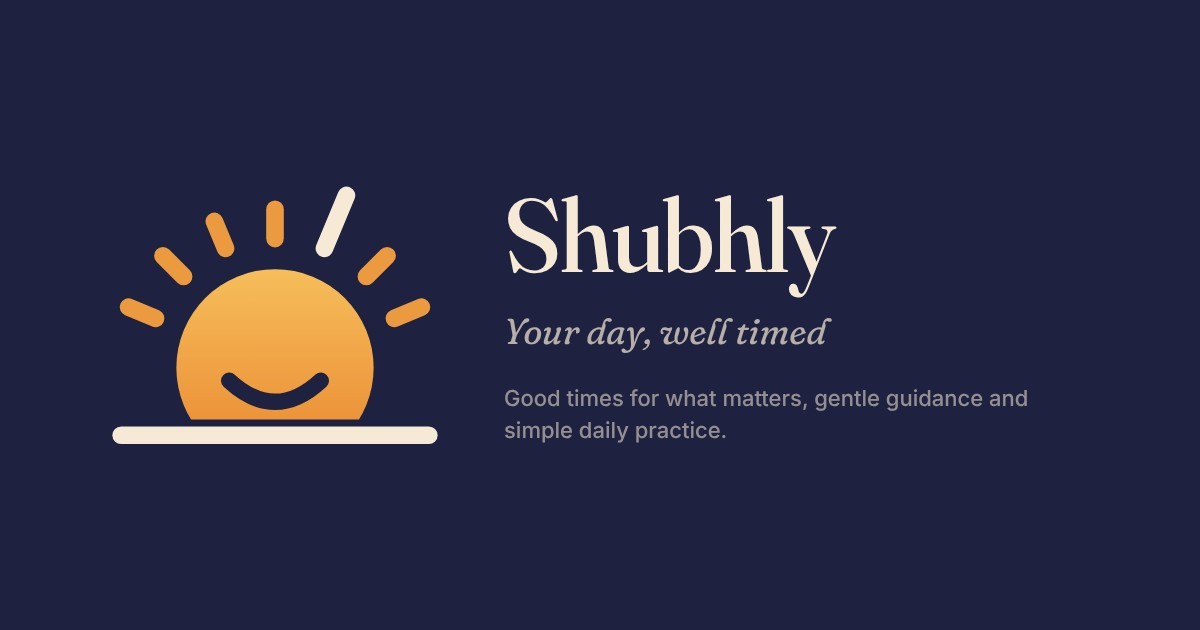
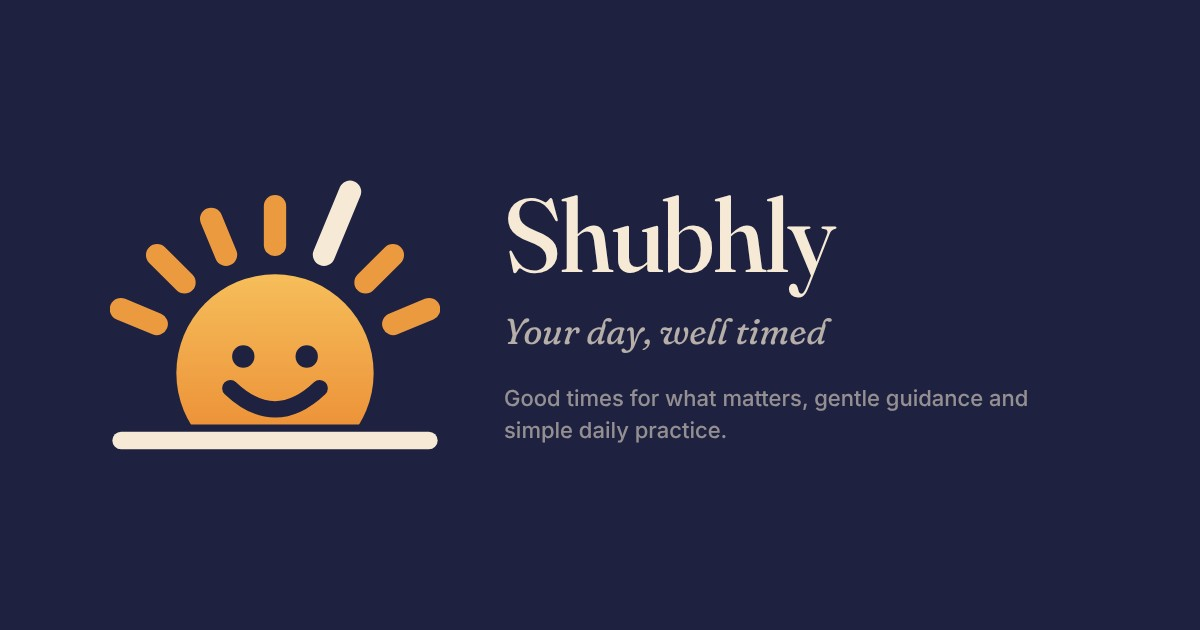
Shubhly mark: add eyes, bolder rays
Claude-Session: https://claude.ai/code/session_01S2B5MfNgVKzhJ8tjaHYyp9

Changed region(s): [[0.0925, 0.2714, 0.37, 0.5429], [0.0925, 0.5429, 0.37, 0.7238]]

diff --git a/app/index.html b/app/index.html
@@ -38,7 +38,7 @@
 </head>
 <body>
 <script>(function(){var p=null;try{p=JSON.parse(localStorage.getItem("a:profile")||"null")}catch(e){}window.ME={first:p&&p.name?p.name.split(" ")[0]:"",name:"You",self:true,birth:p&&p.dob?{dob:p.dob,time:p.time,lat:p.place[0],lon:p.place[1],tz:p.tz||"Asia/Kolkata"}:null}})()</script>
-<div class="splash anim" id="splash" aria-hidden="true"><svg class="sp-mark" viewBox="231 232 562 447" aria-hidden="true"><defs><linearGradient id="spg" x1="0" y1="377" x2="0" y2="660" gradientUnits="userSpaceOnUse"><stop offset="0" stop-color="#F6BE5A"/><stop offset="1" stop-color="#EC8F37"/></linearGradient><clipPath id="spc"><rect x="0" y="0" width="1024" height="633"/></clipPath></defs><g clip-path="url(#spc)"><g class="sp-sun"><circle cx="512" cy="545" r="168" fill="url(#spg)"/><path class="sp-s" d="M434,567 Q512,639 590,567" fill="none" stroke="#1E2140" stroke-width="28" stroke-linecap="round"/></g></g><line class="sp-r" style="--i:0" x1="308.7" y1="460.8" x2="262.6" y2="441.7" stroke="#EC9A40" stroke-width="30" stroke-linecap="round"/><line class="sp-r" style="--i:1" x1="356.4" y1="389.4" x2="321.1" y2="354.1" stroke="#EC9A40" stroke-width="30" stroke-linecap="round"/><line class="sp-r" style="--i:2" x1="427.8" y1="341.7" x2="408.7" y2="295.6" stroke="#EC9A40" stroke-width="30" stroke-linecap="round"/><line class="sp-r" style="--i:3" x1="512.0" y1="325.0" x2="512.0" y2="275.0" stroke="#EC9A40" stroke-width="30" stroke-linecap="round"/><line class="sp-r hi" style="--i:4" x1="596.2" y1="341.7" x2="633.7" y2="251.2" stroke="#F6EAD6" stroke-width="30" stroke-linecap="round"/><line class="sp-r" style="--i:5" x1="667.6" y1="389.4" x2="702.9" y2="354.1" stroke="#EC9A40" stroke-width="30" stroke-linecap="round"/><line class="sp-r" style="--i:6" x1="715.3" y1="460.8" x2="761.4" y2="441.7" stroke="#EC9A40" stroke-width="30" stroke-linecap="round"/><line class="sp-h" x1="250" y1="660" x2="774" y2="660" stroke="#F6EAD6" stroke-width="30" stroke-linecap="round"/></svg><div class="sp-word"><b>Shubhly</b><i>Your day, well timed</i></div><div class="sp-hi" id="spHi"></div></div>
+<div class="splash anim" id="splash" aria-hidden="true"><svg class="sp-mark" viewBox="231 213 562 466" aria-hidden="true"><defs><linearGradient id="spg" x1="0" y1="377" x2="0" y2="660" gradientUnits="userSpaceOnUse"><stop offset="0" stop-color="#F6BE5A"/><stop offset="1" stop-color="#EC8F37"/></linearGradient><clipPath id="spc"><rect x="0" y="0" width="1024" height="633"/></clipPath></defs><g clip-path="url(#spc)"><g class="sp-sun"><circle cx="512" cy="545" r="168" fill="url(#spg)"/><g class="sp-s"><circle cx="458" cy="517" r="19" fill="#1E2140"/><circle cx="566" cy="517" r="19" fill="#1E2140"/><path d="M436,571 Q512,643 588,571" fill="none" stroke="#1E2140" stroke-width="28" stroke-linecap="round"/></g></g></g><line class="sp-r" style="--i:0" x1="310.6" y1="461.6" x2="249.6" y2="436.3" stroke="#EC9A40" stroke-width="38" stroke-linecap="round"/><line class="sp-r" style="--i:1" x1="357.9" y1="390.9" x2="311.2" y2="344.2" stroke="#EC9A40" stroke-width="38" stroke-linecap="round"/><line class="sp-r" style="--i:2" x1="428.6" y1="343.6" x2="403.3" y2="282.6" stroke="#EC9A40" stroke-width="38" stroke-linecap="round"/><line class="sp-r" style="--i:3" x1="512.0" y1="327.0" x2="512.0" y2="261.0" stroke="#EC9A40" stroke-width="38" stroke-linecap="round"/><line class="sp-r hi" style="--i:4" x1="595.4" y1="343.6" x2="639.8" y2="236.4" stroke="#F6EAD6" stroke-width="38" stroke-linecap="round"/><line class="sp-r" style="--i:5" x1="666.1" y1="390.9" x2="712.8" y2="344.2" stroke="#EC9A40" stroke-width="38" stroke-linecap="round"/><line class="sp-r" style="--i:6" x1="713.4" y1="461.6" x2="774.4" y2="436.3" stroke="#EC9A40" stroke-width="38" stroke-linecap="round"/><line class="sp-h" x1="250" y1="660" x2="774" y2="660" stroke="#F6EAD6" stroke-width="30" stroke-linecap="round"/></svg><div class="sp-word"><b>Shubhly</b><i>Your day, well timed</i></div><div class="sp-hi" id="spHi"></div></div>
 <script>(function(){try{var h=(new Date(Date.now()+19800e3)).getUTCHours(),g=h<5?'Good night':h<12?'Good morning':h<17?'Good afternoon':h<21?'Good evening':'Good night',M=window.ME||{},n=M.first||'';document.getElementById('spHi').textContent=M.self===false?(n?n+'\u2019s day':''):(g+(n?', '+n:''))}catch(e){}window._spT=Date.now()})()</script>
 <meta name="color-scheme" content="light">
 <style>

diff --git a/eraya/index.html b/eraya/index.html
@@ -38,7 +38,7 @@
 </head>
 <body>
 <script>window.ME={birth:{dob:"2026-09-15",time:"08:09",lat:28.4595,lon:77.0266,tz:"Asia/Kolkata"},first:"Eraya",name:"Eraya",self:false,noWork:true}</script>
-<div class="splash anim" id="splash" aria-hidden="true"><svg class="sp-mark" viewBox="231 232 562 447" aria-hidden="true"><defs><linearGradient id="spg" x1="0" y1="377" x2="0" y2="660" gradientUnits="userSpaceOnUse"><stop offset="0" stop-color="#F6BE5A"/><stop offset="1" stop-color="#EC8F37"/></linearGradient><clipPath id="spc"><rect x="0" y="0" width="1024" height="633"/></clipPath></defs><g clip-path="url(#spc)"><g class="sp-sun"><circle cx="512" cy="545" r="168" fill="url(#spg)"/><path class="sp-s" d="M434,567 Q512,639 590,567" fill="none" stroke="#1E2140" stroke-width="28" stroke-linecap="round"/></g></g><line class="sp-r" style="--i:0" x1="308.7" y1="460.8" x2="262.6" y2="441.7" stroke="#EC9A40" stroke-width="30" stroke-linecap="round"/><line class="sp-r" style="--i:1" x1="356.4" y1="389.4" x2="321.1" y2="354.1" stroke="#EC9A40" stroke-width="30" stroke-linecap="round"/><line class="sp-r" style="--i:2" x1="427.8" y1="341.7" x2="408.7" y2="295.6" stroke="#EC9A40" stroke-width="30" stroke-linecap="round"/><line class="sp-r" style="--i:3" x1="512.0" y1="325.0" x2="512.0" y2="275.0" stroke="#EC9A40" stroke-width="30" stroke-linecap="round"/><line class="sp-r hi" style="--i:4" x1="596.2" y1="341.7" x2="633.7" y2="251.2" stroke="#F6EAD6" stroke-width="30" stroke-linecap="round"/><line class="sp-r" style="--i:5" x1="667.6" y1="389.4" x2="702.9" y2="354.1" stroke="#EC9A40" stroke-width="30" stroke-linecap="round"/><line class="sp-r" style="--i:6" x1="715.3" y1="460.8" x2="761.4" y2="441.7" stroke="#EC9A40" stroke-width="30" stroke-linecap="round"/><line class="sp-h" x1="250" y1="660" x2="774" y2="660" stroke="#F6EAD6" stroke-width="30" stroke-linecap="round"/></svg><div class="sp-word"><b>Shubhly</b><i>Your day, well timed</i></div><div class="sp-hi" id="spHi"></div></div>
+<div class="splash anim" id="splash" aria-hidden="true"><svg class="sp-mark" viewBox="231 213 562 466" aria-hidden="true"><defs><linearGradient id="spg" x1="0" y1="377" x2="0" y2="660" gradientUnits="userSpaceOnUse"><stop offset="0" stop-color="#F6BE5A"/><stop offset="1" stop-color="#EC8F37"/></linearGradient><clipPath id="spc"><rect x="0" y="0" width="1024" height="633"/></clipPath></defs><g clip-path="url(#spc)"><g class="sp-sun"><circle cx="512" cy="545" r="168" fill="url(#spg)"/><g class="sp-s"><circle cx="458" cy="517" r="19" fill="#1E2140"/><circle cx="566" cy="517" r="19" fill="#1E2140"/><path d="M436,571 Q512,643 588,571" fill="none" stroke="#1E2140" stroke-width="28" stroke-linecap="round"/></g></g></g><line class="sp-r" style="--i:0" x1="310.6" y1="461.6" x2="249.6" y2="436.3" stroke="#EC9A40" stroke-width="38" stroke-linecap="round"/><line class="sp-r" style="--i:1" x1="357.9" y1="390.9" x2="311.2" y2="344.2" stroke="#EC9A40" stroke-width="38" stroke-linecap="round"/><line class="sp-r" style="--i:2" x1="428.6" y1="343.6" x2="403.3" y2="282.6" stroke="#EC9A40" stroke-width="38" stroke-linecap="round"/><line class="sp-r" style="--i:3" x1="512.0" y1="327.0" x2="512.0" y2="261.0" stroke="#EC9A40" stroke-width="38" stroke-linecap="round"/><line class="sp-r hi" style="--i:4" x1="595.4" y1="343.6" x2="639.8" y2="236.4" stroke="#F6EAD6" stroke-width="38" stroke-linecap="round"/><line class="sp-r" style="--i:5" x1="666.1" y1="390.9" x2="712.8" y2="344.2" stroke="#EC9A40" stroke-width="38" stroke-linecap="round"/><line class="sp-r" style="--i:6" x1="713.4" y1="461.6" x2="774.4" y2="436.3" stroke="#EC9A40" stroke-width="38" stroke-linecap="round"/><line class="sp-h" x1="250" y1="660" x2="774" y2="660" stroke="#F6EAD6" stroke-width="30" stroke-linecap="round"/></svg><div class="sp-word"><b>Shubhly</b><i>Your day, well timed</i></div><div class="sp-hi" id="spHi"></div></div>
 <script>(function(){try{var h=(new Date(Date.now()+19800e3)).getUTCHours(),g=h<5?'Good night':h<12?'Good morning':h<17?'Good afternoon':h<21?'Good evening':'Good night',M=window.ME||{},n=M.first||'';document.getElementById('spHi').textContent=M.self===false?(n?n+'\u2019s day':''):(g+(n?', '+n:''))}catch(e){}window._spT=Date.now()})()</script>
 <meta name="color-scheme" content="light">
 <style>

diff --git a/pratiksha/index.html b/pratiksha/index.html
@@ -38,7 +38,7 @@
 </head>
 <body>
 <script>window.ME={birth:{dob:"1999-10-01",time:"14:35",lat:26.4499,lon:80.3319,tz:"Asia/Kolkata"},first:"Pratiksha",name:"You",self:true}</script>
-<div class="splash anim" id="splash" aria-hidden="true"><svg class="sp-mark" viewBox="231 232 562 447" aria-hidden="true"><defs><linearGradient id="spg" x1="0" y1="377" x2="0" y2="660" gradientUnits="userSpaceOnUse"><stop offset="0" stop-color="#F6BE5A"/><stop offset="1" stop-color="#EC8F37"/></linearGradient><clipPath id="spc"><rect x="0" y="0" width="1024" height="633"/></clipPath></defs><g clip-path="url(#spc)"><g class="sp-sun"><circle cx="512" cy="545" r="168" fill="url(#spg)"/><path class="sp-s" d="M434,567 Q512,639 590,567" fill="none" stroke="#1E2140" stroke-width="28" stroke-linecap="round"/></g></g><line class="sp-r" style="--i:0" x1="308.7" y1="460.8" x2="262.6" y2="441.7" stroke="#EC9A40" stroke-width="30" stroke-linecap="round"/><line class="sp-r" style="--i:1" x1="356.4" y1="389.4" x2="321.1" y2="354.1" stroke="#EC9A40" stroke-width="30" stroke-linecap="round"/><line class="sp-r" style="--i:2" x1="427.8" y1="341.7" x2="408.7" y2="295.6" stroke="#EC9A40" stroke-width="30" stroke-linecap="round"/><line class="sp-r" style="--i:3" x1="512.0" y1="325.0" x2="512.0" y2="275.0" stroke="#EC9A40" stroke-width="30" stroke-linecap="round"/><line class="sp-r hi" style="--i:4" x1="596.2" y1="341.7" x2="633.7" y2="251.2" stroke="#F6EAD6" stroke-width="30" stroke-linecap="round"/><line class="sp-r" style="--i:5" x1="667.6" y1="389.4" x2="702.9" y2="354.1" stroke="#EC9A40" stroke-width="30" stroke-linecap="round"/><line class="sp-r" style="--i:6" x1="715.3" y1="460.8" x2="761.4" y2="441.7" stroke="#EC9A40" stroke-width="30" stroke-linecap="round"/><line class="sp-h" x1="250" y1="660" x2="774" y2="660" stroke="#F6EAD6" stroke-width="30" stroke-linecap="round"/></svg><div class="sp-word"><b>Shubhly</b><i>Your day, well timed</i></div><div class="sp-hi" id="spHi"></div></div>
+<div class="splash anim" id="splash" aria-hidden="true"><svg class="sp-mark" viewBox="231 213 562 466" aria-hidden="true"><defs><linearGradient id="spg" x1="0" y1="377" x2="0" y2="660" gradientUnits="userSpaceOnUse"><stop offset="0" stop-color="#F6BE5A"/><stop offset="1" stop-color="#EC8F37"/></linearGradient><clipPath id="spc"><rect x="0" y="0" width="1024" height="633"/></clipPath></defs><g clip-path="url(#spc)"><g class="sp-sun"><circle cx="512" cy="545" r="168" fill="url(#spg)"/><g class="sp-s"><circle cx="458" cy="517" r="19" fill="#1E2140"/><circle cx="566" cy="517" r="19" fill="#1E2140"/><path d="M436,571 Q512,643 588,571" fill="none" stroke="#1E2140" stroke-width="28" stroke-linecap="round"/></g></g></g><line class="sp-r" style="--i:0" x1="310.6" y1="461.6" x2="249.6" y2="436.3" stroke="#EC9A40" stroke-width="38" stroke-linecap="round"/><line class="sp-r" style="--i:1" x1="357.9" y1="390.9" x2="311.2" y2="344.2" stroke="#EC9A40" stroke-width="38" stroke-linecap="round"/><line class="sp-r" style="--i:2" x1="428.6" y1="343.6" x2="403.3" y2="282.6" stroke="#EC9A40" stroke-width="38" stroke-linecap="round"/><line class="sp-r" style="--i:3" x1="512.0" y1="327.0" x2="512.0" y2="261.0" stroke="#EC9A40" stroke-width="38" stroke-linecap="round"/><line class="sp-r hi" style="--i:4" x1="595.4" y1="343.6" x2="639.8" y2="236.4" stroke="#F6EAD6" stroke-width="38" stroke-linecap="round"/><line class="sp-r" style="--i:5" x1="666.1" y1="390.9" x2="712.8" y2="344.2" stroke="#EC9A40" stroke-width="38" stroke-linecap="round"/><line class="sp-r" style="--i:6" x1="713.4" y1="461.6" x2="774.4" y2="436.3" stroke="#EC9A40" stroke-width="38" stroke-linecap="round"/><line class="sp-h" x1="250" y1="660" x2="774" y2="660" stroke="#F6EAD6" stroke-width="30" stroke-linecap="round"/></svg><div class="sp-word"><b>Shubhly</b><i>Your day, well timed</i></div><div class="sp-hi" id="spHi"></div></div>
 <script>(function(){try{var h=(new Date(Date.now()+19800e3)).getUTCHours(),g=h<5?'Good night':h<12?'Good morning':h<17?'Good afternoon':h<21?'Good evening':'Good night',M=window.ME||{},n=M.first||'';document.getElementById('spHi').textContent=M.self===false?(n?n+'\u2019s day':''):(g+(n?', '+n:''))}catch(e){}window._spT=Date.now()})()</script>
 <meta name="color-scheme" content="light">
 <style>

diff --git a/didi/index.html b/didi/index.html
@@ -38,7 +38,7 @@
 </head>
 <body>
 <script>window.ME={birth:{dob:"1982-07-29",time:"14:15",lat:26.8467,lon:80.9462,tz:"Asia/Kolkata"},first:"Shraddha",name:"You",self:true}</script>
-<div class="splash anim" id="splash" aria-hidden="true"><svg class="sp-mark" viewBox="231 232 562 447" aria-hidden="true"><defs><linearGradient id="spg" x1="0" y1="377" x2="0" y2="660" gradientUnits="userSpaceOnUse"><stop offset="0" stop-color="#F6BE5A"/><stop offset="1" stop-color="#EC8F37"/></linearGradient><clipPath id="spc"><rect x="0" y="0" width="1024" height="633"/></clipPath></defs><g clip-path="url(#spc)"><g class="sp-sun"><circle cx="512" cy="545" r="168" fill="url(#spg)"/><path class="sp-s" d="M434,567 Q512,639 590,567" fill="none" stroke="#1E2140" stroke-width="28" stroke-linecap="round"/></g></g><line class="sp-r" style="--i:0" x1="308.7" y1="460.8" x2="262.6" y2="441.7" stroke="#EC9A40" stroke-width="30" stroke-linecap="round"/><line class="sp-r" style="--i:1" x1="356.4" y1="389.4" x2="321.1" y2="354.1" stroke="#EC9A40" stroke-width="30" stroke-linecap="round"/><line class="sp-r" style="--i:2" x1="427.8" y1="341.7" x2="408.7" y2="295.6" stroke="#EC9A40" stroke-width="30" stroke-linecap="round"/><line class="sp-r" style="--i:3" x1="512.0" y1="325.0" x2="512.0" y2="275.0" stroke="#EC9A40" stroke-width="30" stroke-linecap="round"/><line class="sp-r hi" style="--i:4" x1="596.2" y1="341.7" x2="633.7" y2="251.2" stroke="#F6EAD6" stroke-width="30" stroke-linecap="round"/><line class="sp-r" style="--i:5" x1="667.6" y1="389.4" x2="702.9" y2="354.1" stroke="#EC9A40" stroke-width="30" stroke-linecap="round"/><line class="sp-r" style="--i:6" x1="715.3" y1="460.8" x2="761.4" y2="441.7" stroke="#EC9A40" stroke-width="30" stroke-linecap="round"/><line class="sp-h" x1="250" y1="660" x2="774" y2="660" stroke="#F6EAD6" stroke-width="30" stroke-linecap="round"/></svg><div class="sp-word"><b>Shubhly</b><i>Your day, well timed</i></div><div class="sp-hi" id="spHi"></div></div>
+<div class="splash anim" id="splash" aria-hidden="true"><svg class="sp-mark" viewBox="231 213 562 466" aria-hidden="true"><defs><linearGradient id="spg" x1="0" y1="377" x2="0" y2="660" gradientUnits="userSpaceOnUse"><stop offset="0" stop-color="#F6BE5A"/><stop offset="1" stop-color="#EC8F37"/></linearGradient><clipPath id="spc"><rect x="0" y="0" width="1024" height="633"/></clipPath></defs><g clip-path="url(#spc)"><g class="sp-sun"><circle cx="512" cy="545" r="168" fill="url(#spg)"/><g class="sp-s"><circle cx="458" cy="517" r="19" fill="#1E2140"/><circle cx="566" cy="517" r="19" fill="#1E2140"/><path d="M436,571 Q512,643 588,571" fill="none" stroke="#1E2140" stroke-width="28" stroke-linecap="round"/></g></g></g><line class="sp-r" style="--i:0" x1="310.6" y1="461.6" x2="249.6" y2="436.3" stroke="#EC9A40" stroke-width="38" stroke-linecap="round"/><line class="sp-r" style="--i:1" x1="357.9" y1="390.9" x2="311.2" y2="344.2" stroke="#EC9A40" stroke-width="38" stroke-linecap="round"/><line class="sp-r" style="--i:2" x1="428.6" y1="343.6" x2="403.3" y2="282.6" stroke="#EC9A40" stroke-width="38" stroke-linecap="round"/><line class="sp-r" style="--i:3" x1="512.0" y1="327.0" x2="512.0" y2="261.0" stroke="#EC9A40" stroke-width="38" stroke-linecap="round"/><line class="sp-r hi" style="--i:4" x1="595.4" y1="343.6" x2="639.8" y2="236.4" stroke="#F6EAD6" stroke-width="38" stroke-linecap="round"/><line class="sp-r" style="--i:5" x1="666.1" y1="390.9" x2="712.8" y2="344.2" stroke="#EC9A40" stroke-width="38" stroke-linecap="round"/><line class="sp-r" style="--i:6" x1="713.4" y1="461.6" x2="774.4" y2="436.3" stroke="#EC9A40" stroke-width="38" stroke-linecap="round"/><line class="sp-h" x1="250" y1="660" x2="774" y2="660" stroke="#F6EAD6" stroke-width="30" stroke-linecap="round"/></svg><div class="sp-word"><b>Shubhly</b><i>Your day, well timed</i></div><div class="sp-hi" id="spHi"></div></div>
 <script>(function(){try{var h=(new Date(Date.now()+19800e3)).getUTCHours(),g=h<5?'Good night':h<12?'Good morning':h<17?'Good afternoon':h<21?'Good evening':'Good night',M=window.ME||{},n=M.first||'';document.getElementById('spHi').textContent=M.self===false?(n?n+'\u2019s day':''):(g+(n?', '+n:''))}catch(e){}window._spT=Date.now()})()</script>
 <meta name="color-scheme" content="light">
 <style>

diff --git a/index.html b/index.html
@@ -38,7 +38,7 @@
 </head>
 <body>
 <script>window.ME={birth:{dob:"1994-07-08",time:"07:52",lat:26.8467,lon:80.9462,tz:"Asia/Kolkata"},first:"Aayush",name:"You",self:true}</script>
-<div class="splash anim" id="splash" aria-hidden="true"><svg class="sp-mark" viewBox="231 232 562 447" aria-hidden="true"><defs><linearGradient id="spg" x1="0" y1="377" x2="0" y2="660" gradientUnits="userSpaceOnUse"><stop offset="0" stop-color="#F6BE5A"/><stop offset="1" stop-color="#EC8F37"/></linearGradient><clipPath id="spc"><rect x="0" y="0" width="1024" height="633"/></clipPath></defs><g clip-path="url(#spc)"><g class="sp-sun"><circle cx="512" cy="545" r="168" fill="url(#spg)"/><path class="sp-s" d="M434,567 Q512,639 590,567" fill="none" stroke="#1E2140" stroke-width="28" stroke-linecap="round"/></g></g><line class="sp-r" style="--i:0" x1="308.7" y1="460.8" x2="262.6" y2="441.7" stroke="#EC9A40" stroke-width="30" stroke-linecap="round"/><line class="sp-r" style="--i:1" x1="356.4" y1="389.4" x2="321.1" y2="354.1" stroke="#EC9A40" stroke-width="30" stroke-linecap="round"/><line class="sp-r" style="--i:2" x1="427.8" y1="341.7" x2="408.7" y2="295.6" stroke="#EC9A40" stroke-width="30" stroke-linecap="round"/><line class="sp-r" style="--i:3" x1="512.0" y1="325.0" x2="512.0" y2="275.0" stroke="#EC9A40" stroke-width="30" stroke-linecap="round"/><line class="sp-r hi" style="--i:4" x1="596.2" y1="341.7" x2="633.7" y2="251.2" stroke="#F6EAD6" stroke-width="30" stroke-linecap="round"/><line class="sp-r" style="--i:5" x1="667.6" y1="389.4" x2="702.9" y2="354.1" stroke="#EC9A40" stroke-width="30" stroke-linecap="round"/><line class="sp-r" style="--i:6" x1="715.3" y1="460.8" x2="761.4" y2="441.7" stroke="#EC9A40" stroke-width="30" stroke-linecap="round"/><line class="sp-h" x1="250" y1="660" x2="774" y2="660" stroke="#F6EAD6" stroke-width="30" stroke-linecap="round"/></svg><div class="sp-word"><b>Shubhly</b><i>Your day, well timed</i></div><div class="sp-hi" id="spHi"></div></div>
+<div class="splash anim" id="splash" aria-hidden="true"><svg class="sp-mark" viewBox="231 213 562 466" aria-hidden="true"><defs><linearGradient id="spg" x1="0" y1="377" x2="0" y2="660" gradientUnits="userSpaceOnUse"><stop offset="0" stop-color="#F6BE5A"/><stop offset="1" stop-color="#EC8F37"/></linearGradient><clipPath id="spc"><rect x="0" y="0" width="1024" height="633"/></clipPath></defs><g clip-path="url(#spc)"><g class="sp-sun"><circle cx="512" cy="545" r="168" fill="url(#spg)"/><g class="sp-s"><circle cx="458" cy="517" r="19" fill="#1E2140"/><circle cx="566" cy="517" r="19" fill="#1E2140"/><path d="M436,571 Q512,643 588,571" fill="none" stroke="#1E2140" stroke-width="28" stroke-linecap="round"/></g></g></g><line class="sp-r" style="--i:0" x1="310.6" y1="461.6" x2="249.6" y2="436.3" stroke="#EC9A40" stroke-width="38" stroke-linecap="round"/><line class="sp-r" style="--i:1" x1="357.9" y1="390.9" x2="311.2" y2="344.2" stroke="#EC9A40" stroke-width="38" stroke-linecap="round"/><line class="sp-r" style="--i:2" x1="428.6" y1="343.6" x2="403.3" y2="282.6" stroke="#EC9A40" stroke-width="38" stroke-linecap="round"/><line class="sp-r" style="--i:3" x1="512.0" y1="327.0" x2="512.0" y2="261.0" stroke="#EC9A40" stroke-width="38" stroke-linecap="round"/><line class="sp-r hi" style="--i:4" x1="595.4" y1="343.6" x2="639.8" y2="236.4" stroke="#F6EAD6" stroke-width="38" stroke-linecap="round"/><line class="sp-r" style="--i:5" x1="666.1" y1="390.9" x2="712.8" y2="344.2" stroke="#EC9A40" stroke-width="38" stroke-linecap="round"/><line class="sp-r" style="--i:6" x1="713.4" y1="461.6" x2="774.4" y2="436.3" stroke="#EC9A40" stroke-width="38" stroke-linecap="round"/><line class="sp-h" x1="250" y1="660" x2="774" y2="660" stroke="#F6EAD6" stroke-width="30" stroke-linecap="round"/></svg><div class="sp-word"><b>Shubhly</b><i>Your day, well timed</i></div><div class="sp-hi" id="spHi"></div></div>
 <script>(function(){try{var h=(new Date(Date.now()+19800e3)).getUTCHours(),g=h<5?'Good night':h<12?'Good morning':h<17?'Good afternoon':h<21?'Good evening':'Good night',M=window.ME||{},n=M.first||'';document.getElementById('spHi').textContent=M.self===false?(n?n+'\u2019s day':''):(g+(n?', '+n:''))}catch(e){}window._spT=Date.now()})()</script>
 <meta name="color-scheme" content="light">
 <style>

diff --git a/karan/index.html b/karan/index.html
@@ -38,7 +38,7 @@
 </head>
 <body>
 <script>window.ME={birth:{dob:"1993-11-30",time:"23:40",lat:28.4089,lon:77.3178,tz:"Asia/Kolkata"},first:"Karan",name:"You",self:true}</script>
-<div class="splash anim" id="splash" aria-hidden="true"><svg class="sp-mark" viewBox="231 232 562 447" aria-hidden="true"><defs><linearGradient id="spg" x1="0" y1="377" x2="0" y2="660" gradientUnits="userSpaceOnUse"><stop offset="0" stop-color="#F6BE5A"/><stop offset="1" stop-color="#EC8F37"/></linearGradient><clipPath id="spc"><rect x="0" y="0" width="1024" height="633"/></clipPath></defs><g clip-path="url(#spc)"><g class="sp-sun"><circle cx="512" cy="545" r="168" fill="url(#spg)"/><path class="sp-s" d="M434,567 Q512,639 590,567" fill="none" stroke="#1E2140" stroke-width="28" stroke-linecap="round"/></g></g><line class="sp-r" style="--i:0" x1="308.7" y1="460.8" x2="262.6" y2="441.7" stroke="#EC9A40" stroke-width="30" stroke-linecap="round"/><line class="sp-r" style="--i:1" x1="356.4" y1="389.4" x2="321.1" y2="354.1" stroke="#EC9A40" stroke-width="30" stroke-linecap="round"/><line class="sp-r" style="--i:2" x1="427.8" y1="341.7" x2="408.7" y2="295.6" stroke="#EC9A40" stroke-width="30" stroke-linecap="round"/><line class="sp-r" style="--i:3" x1="512.0" y1="325.0" x2="512.0" y2="275.0" stroke="#EC9A40" stroke-width="30" stroke-linecap="round"/><line class="sp-r hi" style="--i:4" x1="596.2" y1="341.7" x2="633.7" y2="251.2" stroke="#F6EAD6" stroke-width="30" stroke-linecap="round"/><line class="sp-r" style="--i:5" x1="667.6" y1="389.4" x2="702.9" y2="354.1" stroke="#EC9A40" stroke-width="30" stroke-linecap="round"/><line class="sp-r" style="--i:6" x1="715.3" y1="460.8" x2="761.4" y2="441.7" stroke="#EC9A40" stroke-width="30" stroke-linecap="round"/><line class="sp-h" x1="250" y1="660" x2="774" y2="660" stroke="#F6EAD6" stroke-width="30" stroke-linecap="round"/></svg><div class="sp-word"><b>Shubhly</b><i>Your day, well timed</i></div><div class="sp-hi" id="spHi"></div></div>
+<div class="splash anim" id="splash" aria-hidden="true"><svg class="sp-mark" viewBox="231 213 562 466" aria-hidden="true"><defs><linearGradient id="spg" x1="0" y1="377" x2="0" y2="660" gradientUnits="userSpaceOnUse"><stop offset="0" stop-color="#F6BE5A"/><stop offset="1" stop-color="#EC8F37"/></linearGradient><clipPath id="spc"><rect x="0" y="0" width="1024" height="633"/></clipPath></defs><g clip-path="url(#spc)"><g class="sp-sun"><circle cx="512" cy="545" r="168" fill="url(#spg)"/><g class="sp-s"><circle cx="458" cy="517" r="19" fill="#1E2140"/><circle cx="566" cy="517" r="19" fill="#1E2140"/><path d="M436,571 Q512,643 588,571" fill="none" stroke="#1E2140" stroke-width="28" stroke-linecap="round"/></g></g></g><line class="sp-r" style="--i:0" x1="310.6" y1="461.6" x2="249.6" y2="436.3" stroke="#EC9A40" stroke-width="38" stroke-linecap="round"/><line class="sp-r" style="--i:1" x1="357.9" y1="390.9" x2="311.2" y2="344.2" stroke="#EC9A40" stroke-width="38" stroke-linecap="round"/><line class="sp-r" style="--i:2" x1="428.6" y1="343.6" x2="403.3" y2="282.6" stroke="#EC9A40" stroke-width="38" stroke-linecap="round"/><line class="sp-r" style="--i:3" x1="512.0" y1="327.0" x2="512.0" y2="261.0" stroke="#EC9A40" stroke-width="38" stroke-linecap="round"/><line class="sp-r hi" style="--i:4" x1="595.4" y1="343.6" x2="639.8" y2="236.4" stroke="#F6EAD6" stroke-width="38" stroke-linecap="round"/><line class="sp-r" style="--i:5" x1="666.1" y1="390.9" x2="712.8" y2="344.2" stroke="#EC9A40" stroke-width="38" stroke-linecap="round"/><line class="sp-r" style="--i:6" x1="713.4" y1="461.6" x2="774.4" y2="436.3" stroke="#EC9A40" stroke-width="38" stroke-linecap="round"/><line class="sp-h" x1="250" y1="660" x2="774" y2="660" stroke="#F6EAD6" stroke-width="30" stroke-linecap="round"/></svg><div class="sp-word"><b>Shubhly</b><i>Your day, well timed</i></div><div class="sp-hi" id="spHi"></div></div>
 <script>(function(){try{var h=(new Date(Date.now()+19800e3)).getUTCHours(),g=h<5?'Good night':h<12?'Good morning':h<17?'Good afternoon':h<21?'Good evening':'Good night',M=window.ME||{},n=M.first||'';document.getElementById('spHi').textContent=M.self===false?(n?n+'\u2019s day':''):(g+(n?', '+n:''))}catch(e){}window._spT=Date.now()})()</script>
 <meta name="color-scheme" content="light">
 <style>

diff --git a/manik/index.html b/manik/index.html
@@ -38,7 +38,7 @@
 </head>
 <body>
 <script>window.ME={birth:{dob:"1977-11-20",time:"10:45",lat:28.6139,lon:77.2090,tz:"Asia/Kolkata"},first:"Manik",name:"You",self:true}</script>
-<div class="splash anim" id="splash" aria-hidden="true"><svg class="sp-mark" viewBox="231 232 562 447" aria-hidden="true"><defs><linearGradient id="spg" x1="0" y1="377" x2="0" y2="660" gradientUnits="userSpaceOnUse"><stop offset="0" stop-color="#F6BE5A"/><stop offset="1" stop-color="#EC8F37"/></linearGradient><clipPath id="spc"><rect x="0" y="0" width="1024" height="633"/></clipPath></defs><g clip-path="url(#spc)"><g class="sp-sun"><circle cx="512" cy="545" r="168" fill="url(#spg)"/><path class="sp-s" d="M434,567 Q512,639 590,567" fill="none" stroke="#1E2140" stroke-width="28" stroke-linecap="round"/></g></g><line class="sp-r" style="--i:0" x1="308.7" y1="460.8" x2="262.6" y2="441.7" stroke="#EC9A40" stroke-width="30" stroke-linecap="round"/><line class="sp-r" style="--i:1" x1="356.4" y1="389.4" x2="321.1" y2="354.1" stroke="#EC9A40" stroke-width="30" stroke-linecap="round"/><line class="sp-r" style="--i:2" x1="427.8" y1="341.7" x2="408.7" y2="295.6" stroke="#EC9A40" stroke-width="30" stroke-linecap="round"/><line class="sp-r" style="--i:3" x1="512.0" y1="325.0" x2="512.0" y2="275.0" stroke="#EC9A40" stroke-width="30" stroke-linecap="round"/><line class="sp-r hi" style="--i:4" x1="596.2" y1="341.7" x2="633.7" y2="251.2" stroke="#F6EAD6" stroke-width="30" stroke-linecap="round"/><line class="sp-r" style="--i:5" x1="667.6" y1="389.4" x2="702.9" y2="354.1" stroke="#EC9A40" stroke-width="30" stroke-linecap="round"/><line class="sp-r" style="--i:6" x1="715.3" y1="460.8" x2="761.4" y2="441.7" stroke="#EC9A40" stroke-width="30" stroke-linecap="round"/><line class="sp-h" x1="250" y1="660" x2="774" y2="660" stroke="#F6EAD6" stroke-width="30" stroke-linecap="round"/></svg><div class="sp-word"><b>Shubhly</b><i>Your day, well timed</i></div><div class="sp-hi" id="spHi"></div></div>
+<div class="splash anim" id="splash" aria-hidden="true"><svg class="sp-mark" viewBox="231 213 562 466" aria-hidden="true"><defs><linearGradient id="spg" x1="0" y1="377" x2="0" y2="660" gradientUnits="userSpaceOnUse"><stop offset="0" stop-color="#F6BE5A"/><stop offset="1" stop-color="#EC8F37"/></linearGradient><clipPath id="spc"><rect x="0" y="0" width="1024" height="633"/></clipPath></defs><g clip-path="url(#spc)"><g class="sp-sun"><circle cx="512" cy="545" r="168" fill="url(#spg)"/><g class="sp-s"><circle cx="458" cy="517" r="19" fill="#1E2140"/><circle cx="566" cy="517" r="19" fill="#1E2140"/><path d="M436,571 Q512,643 588,571" fill="none" stroke="#1E2140" stroke-width="28" stroke-linecap="round"/></g></g></g><line class="sp-r" style="--i:0" x1="310.6" y1="461.6" x2="249.6" y2="436.3" stroke="#EC9A40" stroke-width="38" stroke-linecap="round"/><line class="sp-r" style="--i:1" x1="357.9" y1="390.9" x2="311.2" y2="344.2" stroke="#EC9A40" stroke-width="38" stroke-linecap="round"/><line class="sp-r" style="--i:2" x1="428.6" y1="343.6" x2="403.3" y2="282.6" stroke="#EC9A40" stroke-width="38" stroke-linecap="round"/><line class="sp-r" style="--i:3" x1="512.0" y1="327.0" x2="512.0" y2="261.0" stroke="#EC9A40" stroke-width="38" stroke-linecap="round"/><line class="sp-r hi" style="--i:4" x1="595.4" y1="343.6" x2="639.8" y2="236.4" stroke="#F6EAD6" stroke-width="38" stroke-linecap="round"/><line class="sp-r" style="--i:5" x1="666.1" y1="390.9" x2="712.8" y2="344.2" stroke="#EC9A40" stroke-width="38" stroke-linecap="round"/><line class="sp-r" style="--i:6" x1="713.4" y1="461.6" x2="774.4" y2="436.3" stroke="#EC9A40" stroke-width="38" stroke-linecap="round"/><line class="sp-h" x1="250" y1="660" x2="774" y2="660" stroke="#F6EAD6" stroke-width="30" stroke-linecap="round"/></svg><div class="sp-word"><b>Shubhly</b><i>Your day, well timed</i></div><div class="sp-hi" id="spHi"></div></div>
 <script>(function(){try{var h=(new Date(Date.now()+19800e3)).getUTCHours(),g=h<5?'Good night':h<12?'Good morning':h<17?'Good afternoon':h<21?'Good evening':'Good night',M=window.ME||{},n=M.first||'';document.getElementById('spHi').textContent=M.self===false?(n?n+'\u2019s day':''):(g+(n?', '+n:''))}catch(e){}window._spT=Date.now()})()</script>
 <meta name="color-scheme" content="light">
 <style>

diff --git a/pratiksha/sw.js b/pratiksha/sw.js
@@ -1,4 +1,4 @@
-const C='panchang-pratiksha-v38';
+const C='panchang-pratiksha-v39';
 const FILES=['./','../moon.png','index.html','../astronomy.min.js','manifest.webmanifest','../icon-180.png','../icon-192.png','../icon-512.png','../icon-maskable-512.png','../features.js','../features.css'];
 self.addEventListener('install',e=>{e.waitUntil(caches.open(C).then(c=>c.addAll(FILES)));self.skipWaiting()});
 self.addEventListener('activate',e=>{e.waitUntil(caches.keys().then(ks=>Promise.all(ks.filter(k=>k!==C).map(k=>caches.delete(k)))));self.clients.claim()});

diff --git a/eraya/sw.js b/eraya/sw.js
@@ -1,4 +1,4 @@
-const C='panchang-eraya-v39';
+const C='panchang-eraya-v40';
 const FILES=['./','../moon.png','index.html','../astronomy.min.js','manifest.webmanifest','../icon-180.png','../icon-192.png','../icon-512.png','../icon-maskable-512.png','../features.js','../features.css'];
 self.addEventListener('install',e=>{e.waitUntil(caches.open(C).then(c=>c.addAll(FILES)));self.skipWaiting()});
 self.addEventListener('activate',e=>{e.waitUntil(caches.keys().then(ks=>Promise.all(ks.filter(k=>k!==C).map(k=>caches.delete(k)))));self.clients.claim()});

diff --git a/karan/sw.js b/karan/sw.js
@@ -1,4 +1,4 @@
-const C='panchang-karan-v45';
+const C='panchang-karan-v46';
 const FILES=['./','../moon.png','index.html','../astronomy.min.js','manifest.webmanifest','../icon-180.png','../icon-192.png','../icon-512.png','../icon-maskable-512.png','../features.js','../features.css'];
 self.addEventListener('install',e=>{e.waitUntil(caches.open(C).then(c=>c.addAll(FILES)));self.skipWaiting()});
 self.addEventListener('activate',e=>{e.waitUntil(caches.keys().then(ks=>Promise.all(ks.filter(k=>k!==C).map(k=>caches.delete(k)))));self.clients.claim()});

diff --git a/manik/sw.js b/manik/sw.js
@@ -1,4 +1,4 @@
-const C='panchang-manik-v15';
+const C='panchang-manik-v16';
 const FILES=['./','../moon.png','index.html','../astronomy.min.js','manifest.webmanifest','../icon-180.png','../icon-192.png','../icon-512.png','../icon-maskable-512.png','../features.js','../features.css'];
 self.addEventListener('install',e=>{e.waitUntil(caches.open(C).then(c=>c.addAll(FILES)));self.skipWaiting()});
 self.addEventListener('activate',e=>{e.waitUntil(caches.keys().then(ks=>Promise.all(ks.filter(k=>k!==C).map(k=>caches.delete(k)))));self.clients.claim()});

diff --git a/didi/sw.js b/didi/sw.js
@@ -1,4 +1,4 @@
-const C='panchang-didi-v80';
+const C='panchang-didi-v81';
 const FILES=['./','../moon.png','index.html','../astronomy.min.js','manifest.webmanifest','../icon-180.png','../icon-192.png','../icon-512.png','../icon-maskable-512.png','../features.js','../features.css'];
 self.addEventListener('install',e=>{e.waitUntil(caches.open(C).then(c=>c.addAll(FILES)));self.skipWaiting()});
 self.addEventListener('activate',e=>{e.waitUntil(caches.keys().then(ks=>Promise.all(ks.filter(k=>k!==C).map(k=>caches.delete(k)))));self.clients.claim()});
